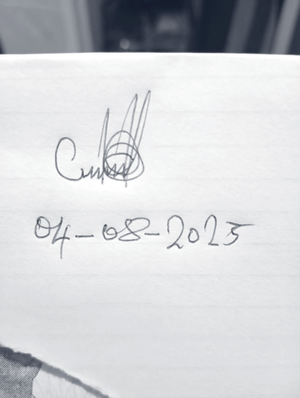
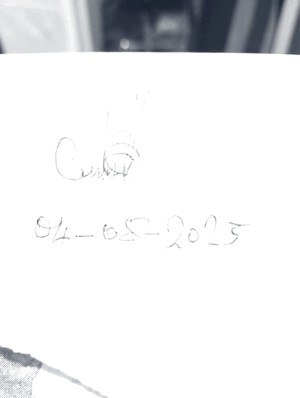
Fix signature extraction: Otsu threshold + mix-blend-mode multiply
Signature extraction rewritten with Otsu's algorithm:
- Otsu automatically finds the optimal ink/paper brightness split
  (121 for CEO, 162 for instructor) — no hard-coded threshold
- Paper pixels (>= threshold) → alpha 0, fully transparent
- Ink pixels → dark navy (10,18,34), alpha proportional to darkness
- Gaussian blur r=0.5 for natural anti-aliased edges
- Result: 84% / 62% of pixels transparent (paper gone)

CSS belt-and-suspenders: mix-blend-mode multiply + opacity 0.92 on
both signature img elements so any residual grey tone becomes invisible
on the cream certificate background (#FEFCF5)

Claude-Session: https://claude.ai/code/session_01PmrnAvj8i1SMGdtZogWqLR

diff --git a/src/app/_components/CertificateA.tsx b/src/app/_components/CertificateA.tsx
@@ -262,7 +262,8 @@ export default function CertificateA({
             <div style={{ height:52, display:'flex', alignItems:'flex-end', justifyContent:'center', marginBottom:4 }}>
               {/* eslint-disable-next-line @next/next/no-img-element */}
               <img src="/signatures/ceo.png" alt="CEO signature"
-                style={{ width:155, height:52, objectFit:'contain', objectPosition:'bottom', display:'block' }}/>
+                style={{ width:155, height:52, objectFit:'contain', objectPosition:'bottom', display:'block',
+                  mixBlendMode:'multiply', opacity:0.92 }}/>
             </div>
             <div style={{ width:158, height:1, background:'linear-gradient(to right, transparent, #C9A84C, transparent)', margin:'0 auto 4px' }}/>
             <div style={{ fontSize:10.5, fontWeight:700, color:'#1B2A4A', letterSpacing:'0.3px' }}>Gideon Owhonda</div>
@@ -279,7 +280,8 @@ export default function CertificateA({
             <div style={{ height:52, display:'flex', alignItems:'flex-end', justifyContent:'center', marginBottom:4 }}>
               {/* eslint-disable-next-line @next/next/no-img-element */}
               <img src="/signatures/instructor.png" alt="Lead Instructor signature"
-                style={{ width:155, height:52, objectFit:'contain', objectPosition:'bottom', display:'block' }}/>
+                style={{ width:155, height:52, objectFit:'contain', objectPosition:'bottom', display:'block',
+                  mixBlendMode:'multiply', opacity:0.92 }}/>
             </div>
             <div style={{ width:158, height:1, background:'linear-gradient(to right, transparent, #C9A84C, transparent)', margin:'0 auto 4px' }}/>
             <div style={{ fontSize:10.5, fontWeight:700, color:'#1B2A4A', letterSpacing:'0.3px' }}>Bright G.O</div>
